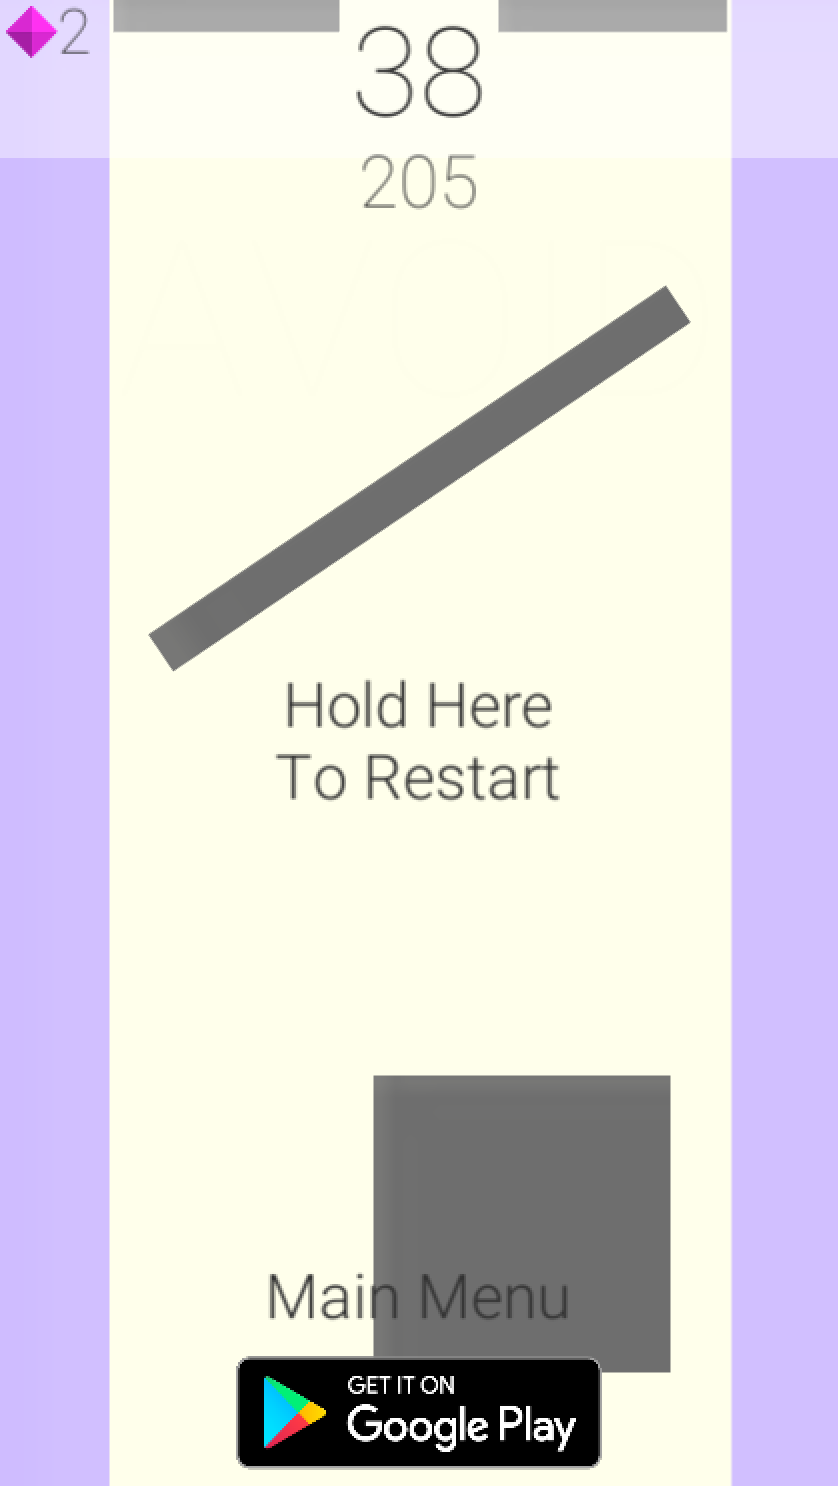
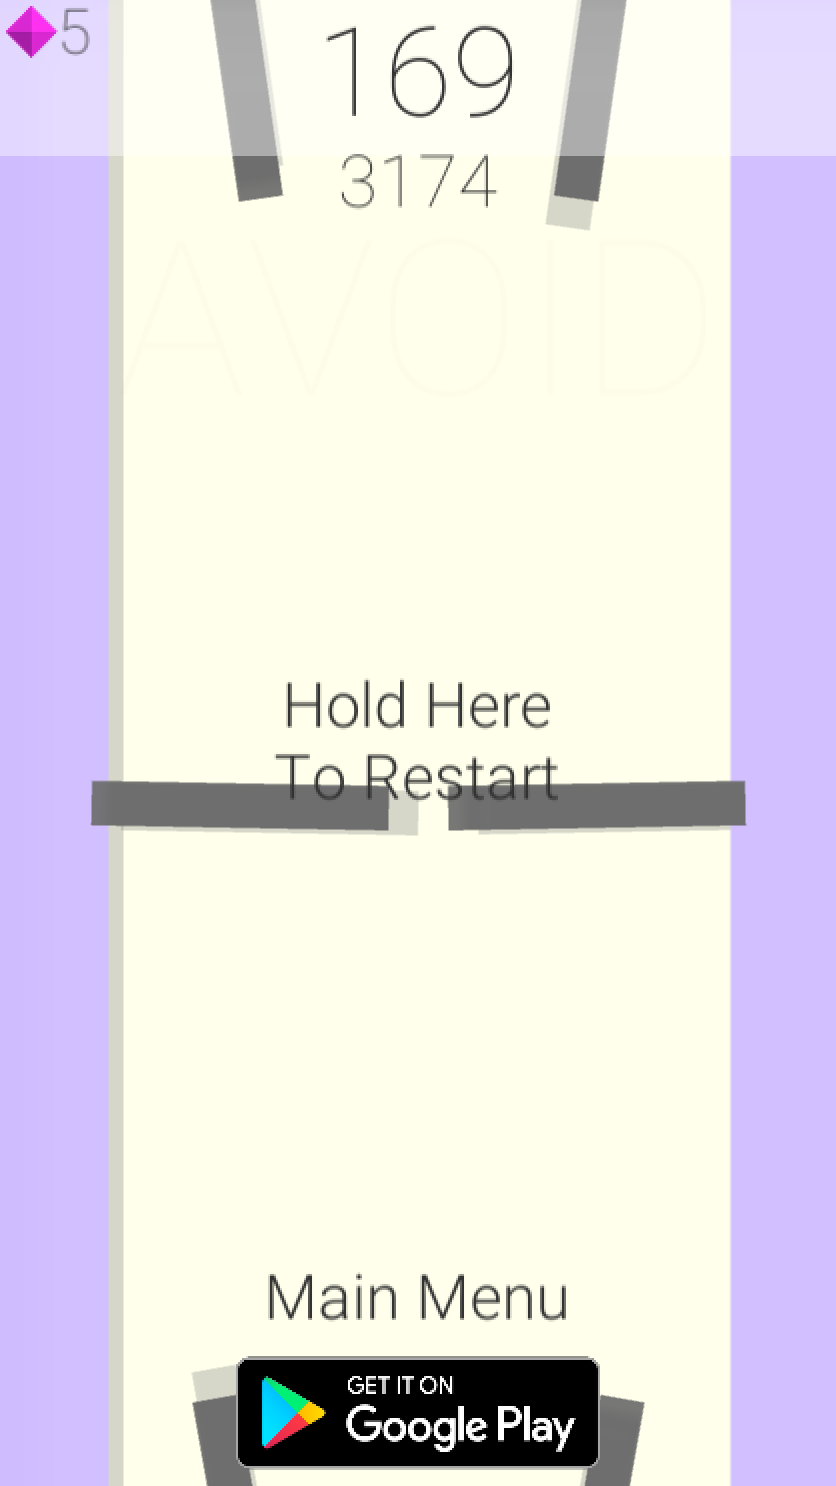
Bug fixes, shadow fixes, color changes.
Fixed DropShadow no pointer exception. Fixed the Rocket Drop shadow distance. Fixed the glitch when reviving where crystals could pile up. Fixed the gradient on the super rainbow so that purple transitioned to red gradually instead of immediately.

diff --git a/AVOID/Assets/Scripts/DropShadow.cs b/AVOID/Assets/Scripts/DropShadow.cs
@@ -31,6 +31,8 @@ public class DropShadow : MonoBehaviour {
         sr.material = material;
         sr.sortingLayerName = renderer.sortingLayerName;
         sr.sortingOrder = -10;
+        Color black = new Color(0, 0, 0);
+        sr.color = black;
     }
 
     public void createFixedShadow(){
@@ -45,6 +47,8 @@ public class DropShadow : MonoBehaviour {
         sr.material = material;
         sr.sortingLayerName = renderer.sortingLayerName;
         sr.sortingOrder = -10;
+        Color black = new Color(0, 0, 0);
+        sr.color = black;
     }
 	
     public void moveFixedShadow(){

diff --git a/AVOID/Assets/Scripts/GameManager.cs b/AVOID/Assets/Scripts/GameManager.cs
@@ -219,6 +219,14 @@ public class GameManager : MonoBehaviour
                 Destroy(go);
             }
         }
+        foreach (GameObject go in GameObject.FindGameObjectsWithTag("Crystal"))
+        {
+                Destroy(go);
+        }
+        foreach (GameObject go in GameObject.FindGameObjectsWithTag("freezeTime"))
+        {
+            Destroy(go);
+        }
         revivesLeft -= 1;
         int currentGems = PlayerPrefs.GetInt("gems");
         PlayerPrefs.SetInt("gems", currentGems - player.GetComponent<PlayerController>().gemsCollected);
